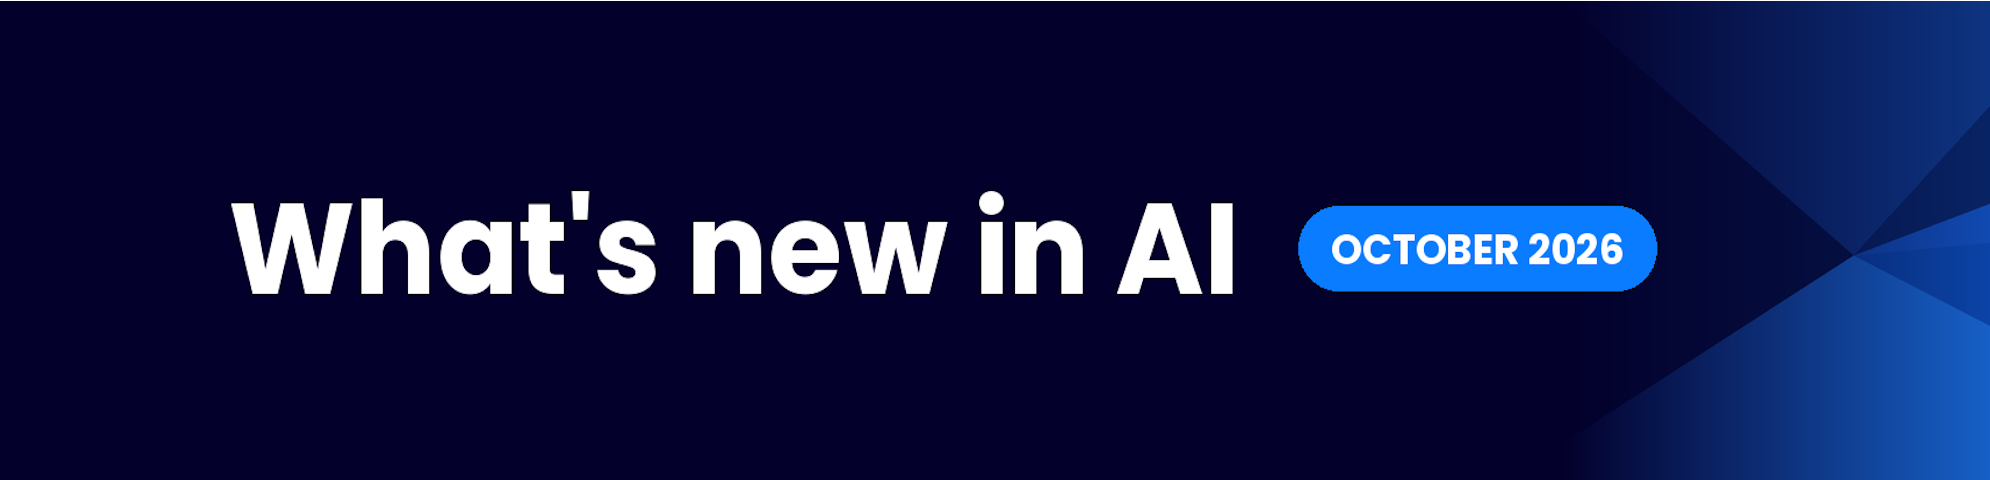
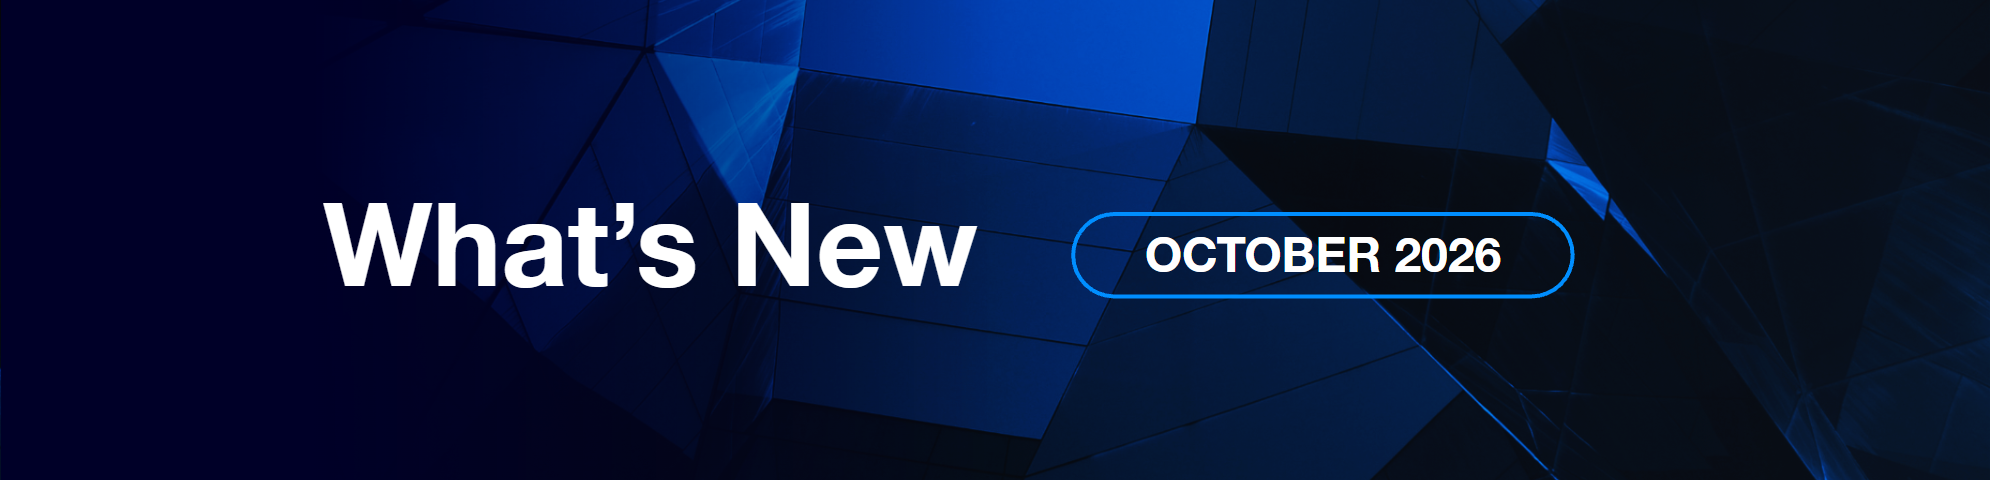
GITBOOK-1536: Rename AI to AI Studio

diff --git a/main/SUMMARY.md b/main/SUMMARY.md
@@ -95,16 +95,16 @@
   * [Circle of Trust Authentication](ext-apps/app-authentication/circle-of-trust-authentication.md)
   * [OBO Authentication](ext-apps/app-authentication/obo-authentication.md)
 
-## AI
+## AI Studio
 
-* [What's New in AI](ai/whats-new-in-ai.md)
-* [AI Agents](ai/ai-agents/README.md)
-  * [AI Agent Studio](ai/ai-agents/ai-agent-studio/README.md)
-    * [Connect your MCP server](ai/ai-agents/ai-agent-studio/connect-your-mcp-server/README.md)
-      * [MCP server configuration examples](ai/ai-agents/ai-agent-studio/connect-your-mcp-server/mcp-server-configuration-examples.md)
-    * [Connect your AI provider](ai/ai-agents/ai-agent-studio/connect-your-ai-provider.md)
-* [MCP Server](ai/mcp-server/README.md)
-  * [Messaging Tools](ai/mcp-server/messaging-tools.md)
+* [What's New in AI](ai-studio/whats-new-in-ai.md)
+* [AI Agents](ai-studio/ai-agents/README.md)
+  * [AI Agent Studio](ai-studio/ai-agents/ai-agent-studio/README.md)
+    * [Connect your MCP server](ai-studio/ai-agents/ai-agent-studio/connect-your-mcp-server/README.md)
+      * [MCP server configuration examples](ai-studio/ai-agents/ai-agent-studio/connect-your-mcp-server/mcp-server-configuration-examples.md)
+    * [Connect your AI provider](ai-studio/ai-agents/ai-agent-studio/connect-your-ai-provider.md)
+* [MCP Server](ai-studio/mcp-server/README.md)
+  * [Messaging Tools](ai-studio/mcp-server/messaging-tools.md)
 
 ## AI invisible
 

diff --git a/main/README.md b/main/README.md
@@ -52,8 +52,8 @@ For an even more in-depth look at how to build bots and apps, check out our new 
 
 AI agents are specialized service accounts that bring LLM-powered reasoning, contextual data access, and tool use into Symphony's secure messaging environment.
 
-{% content-ref url="ai/ai-agents/" %}
-[ai-agents](ai/ai-agents/)
+{% content-ref url="ai-studio/ai-agents/" %}
+[ai-agents](ai-studio/ai-agents/)
 {% endcontent-ref %}
 
 ## Build extension applications <img src=".gitbook/assets/Extension app-large.png" alt="" data-size="line">
